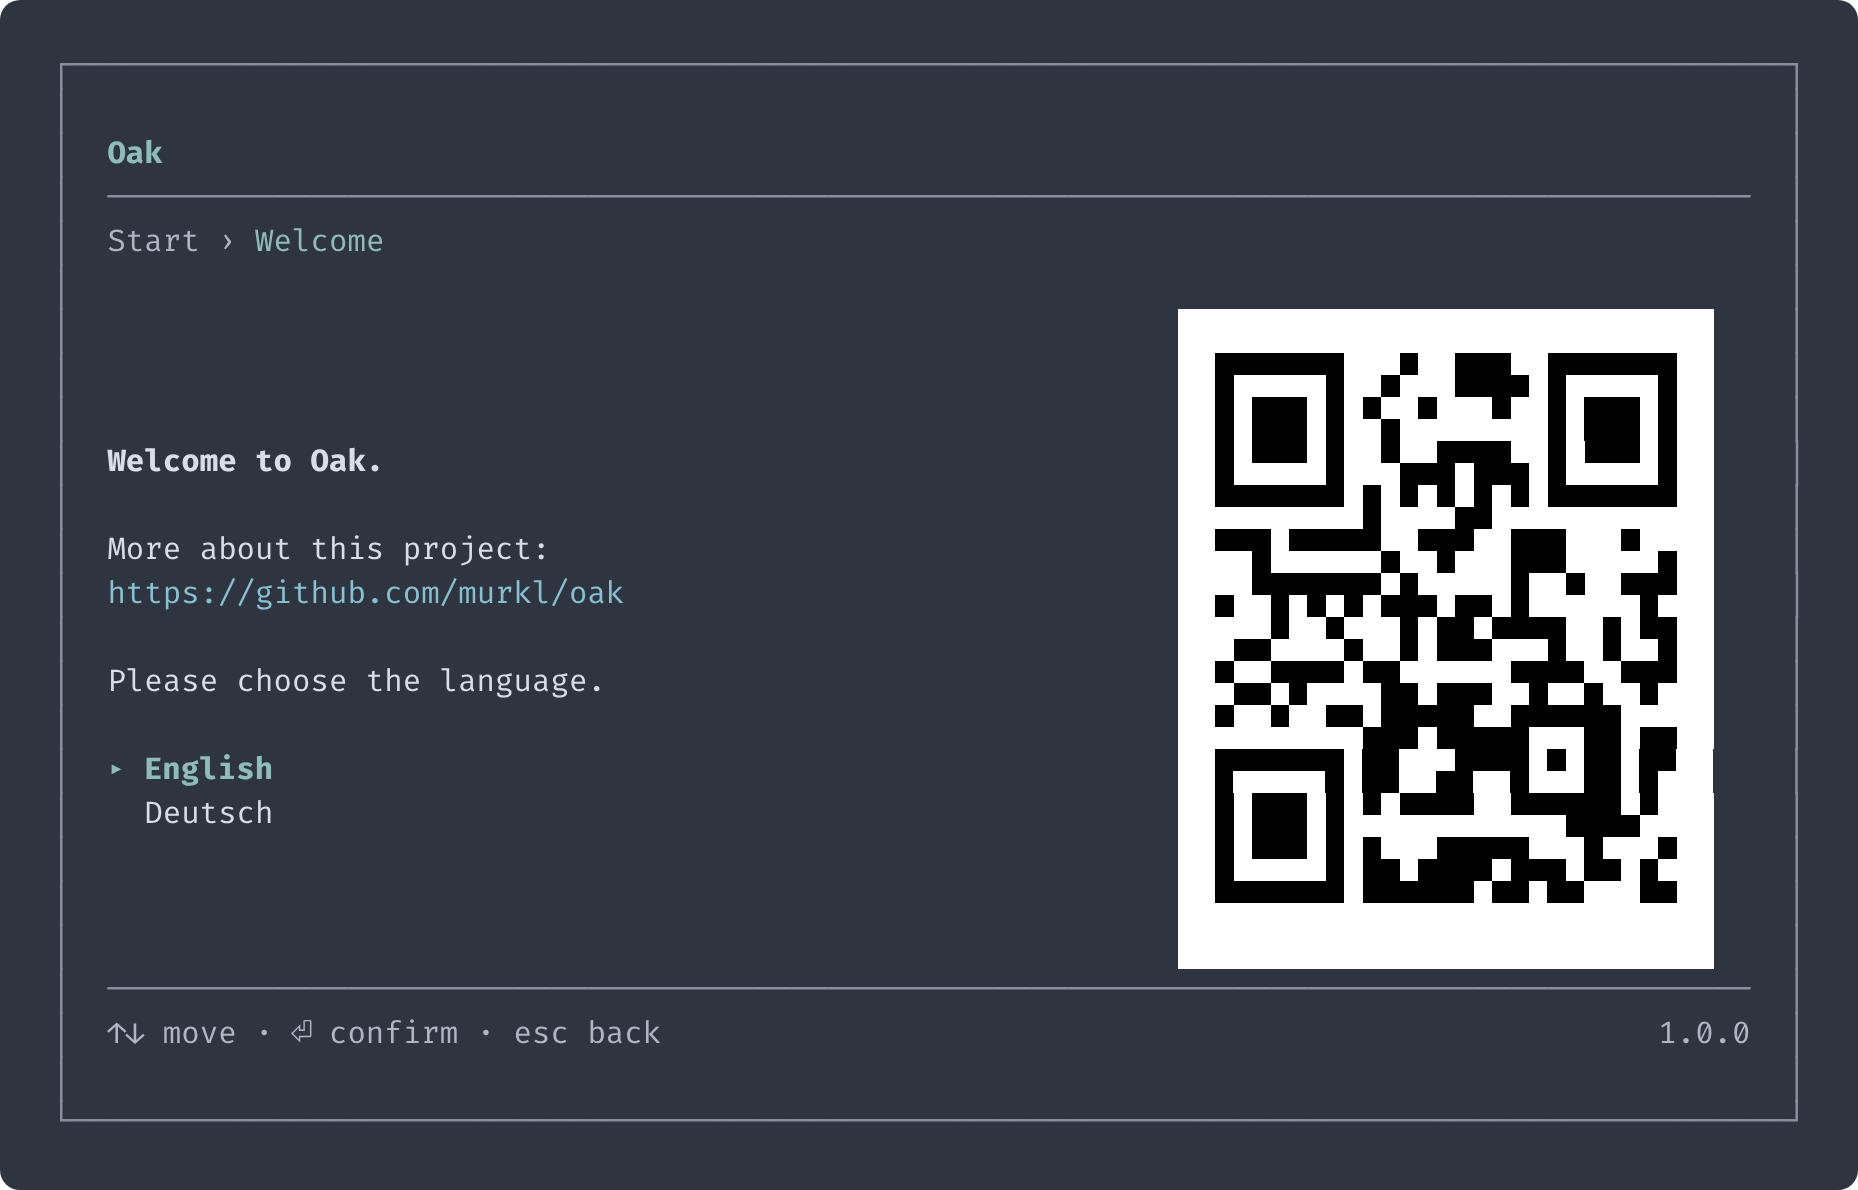
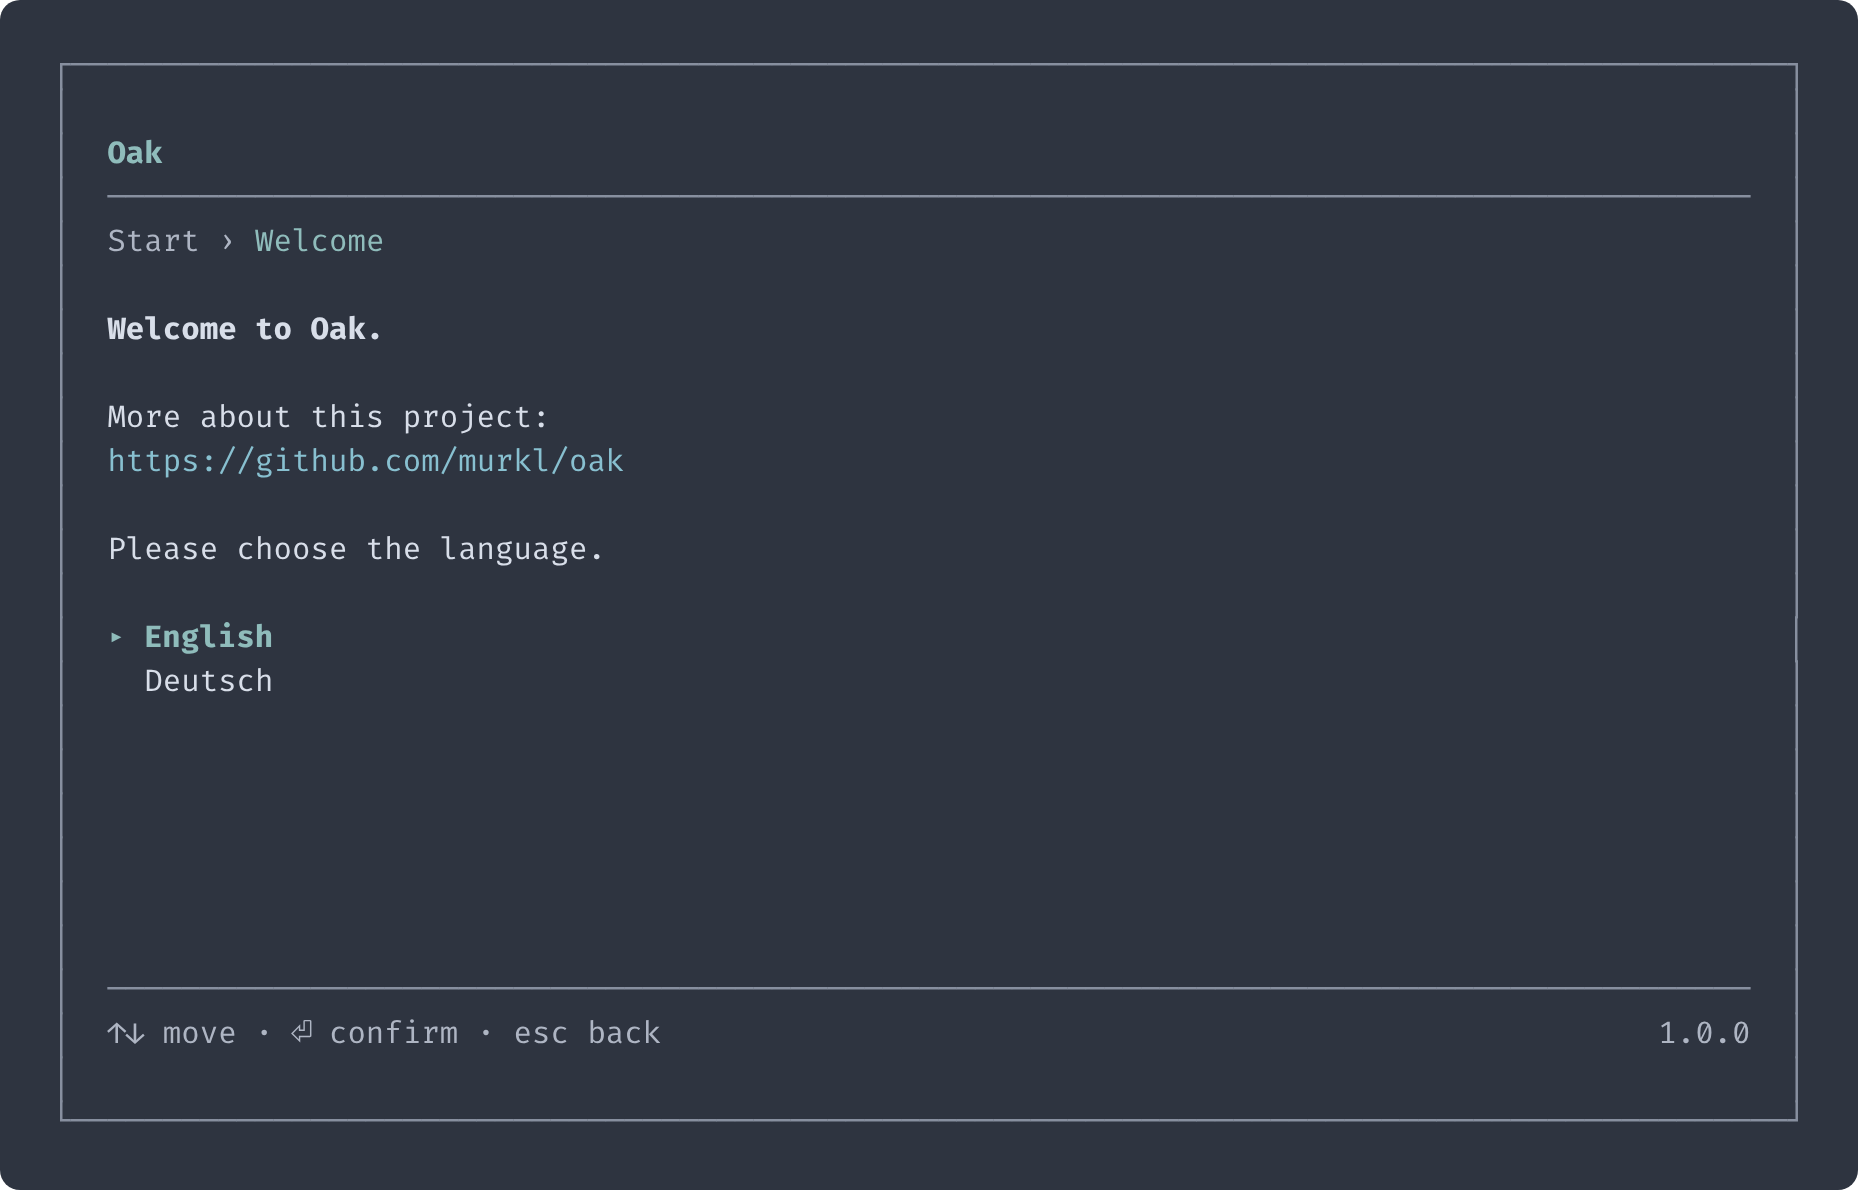
Drop the code from the welcome page and keep the address as writing

diff --git a/tui/language.go b/tui/language.go
@@ -37,10 +37,6 @@ type languageScreen struct {
 	lead  func() string
 	words func(width int) []string
 
-	// link is the product's address, drawn beside the rows as a code to scan.
-	// Empty on every page but the landing, and on a product that declared none.
-	link string
-
 	picker *picker
 	done   func() tea.Cmd
 }
@@ -97,44 +93,24 @@ func (s *languageScreen) Update(msg tea.Msg) (screen, tea.Cmd) {
 	return s, nil
 }
 
-// landingGap is the channel between the words and the code, wide enough that
-// the white of the code reads as a thing on the page rather than as its edge —
-// the same one the report page holds, for the same reason.
-const landingGap = gapL
-
 // View is the list, or — on the landing page — the page that list is part of:
-// the words, the rows under them, and the code beside both.
+// the words and the rows under them.
 //
-// The page divides in the golden ratio twice over. Across: the words and the
-// rows take the major part, the code the minor — that way round because the
-// words are what is read and the rows are what is pressed, while the code is
-// for a second machine entirely. It is drawn in a column of its own rather than
-// against the longest line beside it, so it stands in the same place whatever
-// the product is called and however many languages it was translated into.
-//
-// Down: the rows may claim up to the major part of the height, and whatever
-// they do not need is the words'. On the frame this page is drawn in that costs
-// nothing — two languages leave the words all the room they want — and it is
-// what decides who gives way on a terminal too short for both, or in a product
-// translated into twenty languages. The words do: they are what stands over the
-// page, and a greeting with no answer under it asks a question it does not
-// offer a way to answer.
+// The page divides in the golden ratio: the rows may claim up to the major part
+// of the height, and whatever they do not need is the words'. On the frame this
+// page is drawn in that costs nothing — two languages leave the words all the
+// room they want — and it is what decides who gives way on a terminal too short
+// for both, or in a product translated into twenty languages. The words do:
+// they are what stands over the page, and a greeting with no answer under it
+// asks a question it does not offer a way to answer.
 func (s *languageScreen) View(width, height int) string {
 	if s.words == nil {
 		return s.picker.View(width, height)
 	}
 
-	major, minor := split(width)
-	code := qrCode(s.link, minor, height)
-	if len(code) == 0 {
-		// Nothing beside the words, so there is no column to keep clear for it:
-		// the page is the words and the rows, at the width the frame gives them.
-		major = width
-	}
-
 	rowsWant, _ := split(height)
 	room := height - min(len(s.picker.items), rowsWant) - 1
-	words := s.words(major)
+	words := s.words(width)
 	// A paragraph at a time, from the end: the greeting is what is left last,
 	// and half of one read as the frame's edge would be worse than neither.
 	for len(words) > room {
@@ -145,9 +121,6 @@ func (s *languageScreen) View(width, height int) string {
 	if len(rows) > 0 {
 		rows = append(rows, "")
 	}
-	rows = append(rows, strings.Split(s.picker.View(major, max(height-len(rows), 1)), "\n")...)
-	if len(code) == 0 {
-		return block(rows)
-	}
-	return block(beside(rows, major, code, landingGap))
+	rows = append(rows, strings.Split(s.picker.View(width, max(height-len(rows), 1)), "\n")...)
+	return block(rows)
 }

diff --git a/tui/flow_test.go b/tui/flow_test.go
@@ -739,8 +739,8 @@ func TestTheLandingPageIsNeverTranslated(t *testing.T) {
 
 // The welcome page is read on a machine with nothing on it yet — no browser, no
 // second screen — so where the product says where the rest of it is, that is
-// where it goes: written out, and drawn again as a code, because the only
-// device in the room that can follow a link is the one in somebody's hand.
+// where it goes: written out, for whoever is in front of it to follow on the
+// machine they brought with them.
 func TestTheLandingPageCarriesTheProductsAddress(t *testing.T) {
 	rt := testRuntime()
 	rt.URL = "https://example.org/test-os"
@@ -748,9 +748,6 @@ func TestTheLandingPageCarriesTheProductsAddress(t *testing.T) {
 	h.send(tea.WindowSizeMsg{Width: 95, Height: 25})
 
 	h.wants("Welcome to Test OS.", rt.URL, landingLink, "English")
-	if !strings.Contains(h.screen(), strings.Repeat(blockFull, 2)) {
-		t.Errorf("the address is written but not drawn as a code:\n%s", h.screen())
-	}
 }
 
 // A product that named none is the page as it was: the greeting, and the
@@ -760,18 +757,15 @@ func TestAProductWithNoAddressShowsNone(t *testing.T) {
 	h.wants("Welcome to Test OS.", "English").refuses(landingLink, "https://")
 }
 
-// And the code is never the whole of what is on offer. A terminal too narrow
-// for one is exactly the terminal where the address has to be readable.
-func TestTheAddressStandsWhereTheCodeCannot(t *testing.T) {
+// And it stands whole in a frame with nothing to spare: a narrow terminal is
+// exactly the one where the address has to be readable.
+func TestTheAddressStandsInANarrowFrame(t *testing.T) {
 	rt := testRuntime()
 	rt.URL = "https://example.org/test-os"
 	h := newProduct(t, rt, twoLanguageTree())
 	h.send(tea.WindowSizeMsg{Width: 60, Height: 20})
 
 	h.wants(rt.URL)
-	if strings.Contains(h.screen(), strings.Repeat(blockFull, 2)) {
-		t.Errorf("a code was squeezed into a frame with no room for one:\n%s", h.screen())
-	}
 }
 
 // On a frame too short for all of it, the words give way and the rows do not:

diff --git a/tui/landing.go b/tui/landing.go
@@ -34,11 +34,6 @@ const (
 // and the line that leads the rows — each in the ink that says what it is. The
 // greeting carries the weight, the address the colour a value is written in
 // everywhere else in the program, and what is left is body text.
-//
-// The address is written out whether or not the code beside it could be drawn.
-// A terminal too narrow for the code is exactly the one where it has to be
-// readable, and it is the address that is the answer either way: the code is
-// only the shortest way to carry it to the machine that can follow it.
 func landingWords(product, link string, width int) []string {
 	out := inked(fmt.Sprintf(landingGreeting, product), width, boldStyle)
 	if link != "" {
@@ -50,14 +45,13 @@ func landingWords(product, link string, width int) []string {
 }
 
 // newLanding is that page: the greeting, the address, and under them the
-// languages on offer, with the address drawn a second time as a code to scan.
+// languages on offer.
 //
 // It is the language screen with something else standing over its rows rather
 // than a page of its own — the choice is the same choice, and a second way of
 // making it would be a second thing to keep right.
 func newLanding(a *app, done func() tea.Cmd) *languageScreen {
 	s := newLanguagePage(a, func() string { return landingTitle }, nil, done)
-	s.link = a.link()
-	s.words = func(width int) []string { return landingWords(a.brand(), s.link, width) }
+	s.words = func(width int) []string { return landingWords(a.brand(), a.link(), width) }
 	return s
 }

diff --git a/internal/spec/runtime.go b/internal/spec/runtime.go
@@ -44,10 +44,9 @@ type Runtime struct {
 	Logo   string `yaml:"logo"`
 
 	// URL is where the rest of this product is: what it is, what it does, who
-	// wrote it. It stands on the welcome page, as writing and as a code to
-	// scan, because that page is read on a machine with nothing on it yet — no
-	// browser, often no second screen — and the only device that can follow a
-	// link there is the one in somebody's hand.
+	// wrote it. It stands written out on the welcome page, because that page is
+	// read on a machine with nothing on it yet — no browser, often no second
+	// screen — and whoever is in front of it follows the address elsewhere.
 	//
 	// Left out, the page is the greeting and the languages, exactly as before.
 	URL string `yaml:"url"`
@@ -109,9 +108,9 @@ func (r *Runtime) check() error {
 	if r.Accent != "" && !hexColor.MatchString(r.Accent) {
 		return fmt.Errorf("%s: accent must be #rrggbb, got %q", FileRuntime, r.Accent)
 	}
-	// Checked here rather than where it is drawn: a link is put on screen to be
-	// typed off it and scanned off it, and both want the whole address. What a
-	// browser guesses at from `github.com/...` a camera cannot.
+	// Checked here rather than where it is drawn: the address is put on screen
+	// to be typed into another machine, and half of one leads nowhere. What a
+	// browser fills in from `github.com/...` whoever types it cannot.
 	if r.URL != "" {
 		u, err := url.Parse(r.URL)
 		if err != nil || !u.IsAbs() || u.Host == "" {

diff --git a/internal/spec/runtime_test.go b/internal/spec/runtime_test.go
@@ -105,9 +105,9 @@ func TestLoadRuntimeRefusesAnAccentThatIsNotAColour(t *testing.T) {
 	}
 }
 
-// A product's address is read off a screen by a camera and typed off it by
-// hand, and both want the whole of it — so half of one is refused where it is
-// declared rather than drawn as a code that goes nowhere.
+// A product's address is read off a screen and typed in somewhere else, so it
+// wants the whole of it — and half of one is refused where it is declared
+// rather than shown as a line that leads nowhere.
 func TestLoadRuntimeRefusesAnAddressThatIsNotOne(t *testing.T) {
 	for _, bad := range []string{"github.com/murkl/oak", "/murkl/oak", "https://"} {
 		dir := writeRuntime(t, "title: Test OS\nurl: "+bad+"\n", "installer")

diff --git a/tui/glyphs_test.go b/tui/glyphs_test.go
@@ -237,9 +237,9 @@ func TestTheLandingPageFitsAConsoleFont(t *testing.T) {
 	t.Cleanup(func() { adaptGlyphs(false) })
 	adaptGlyphs(true)
 
-	// With the address and its code, because that is the page a console
-	// actually draws: an installer is exactly the kind of product that has
-	// somewhere to point at and nowhere on the machine to open it.
+	// With the address, because that is the page a console actually draws: an
+	// installer is exactly the kind of product that has somewhere to point at
+	// and nowhere on the machine to open it.
 	rt := testRuntime()
 	rt.URL = "https://example.org/test-os"
 	h := newProduct(t, rt, twoLanguageTree())

diff --git a/docs/REFERENCE.md b/docs/REFERENCE.md
@@ -27,10 +27,10 @@ logo: |
 | `title` | The product's name, over every page — followed by the module's own once one is open |
 | `version` | What this build of the product is called, in the corner of every page. Left out, no version is shown |
 | `accent` | `#rrggbb`. The one colour the interface is built from |
-| `url` | Where the rest of the product is. Stands on the welcome page, written out and drawn beside it as a code to scan. Left out, that page is the greeting and the languages |
+| `url` | Where the rest of the product is. Stands written out on the welcome page. Left out, that page is the greeting and the languages |
 | `logo` | The wordmark. Everything above the first blank line is a dim eyebrow over it |
 
-`url` is an absolute address or it is refused — a scheme and a host, `https://…`. It is read off a screen by a camera as well as by a person, and what a browser would guess at from `tux.org/linux` a camera cannot.
+`url` is an absolute address or it is refused — a scheme and a host, `https://…`. It is read off one screen and typed into another, and the half a browser would fill in from `tux.org/linux` whoever types it has no way of knowing.
 
 `version` is the product's own. Oak's own is what `--version` answers — `0.1.0`, the release and nothing beside it, so a build that pins Oak reads the line as it stands — and what the splash signs off with under the wordmark. It is never shown as though it belonged to the product.
 

diff --git a/docs/CHANGELOG.md b/docs/CHANGELOG.md
@@ -2,6 +2,10 @@
 
 What each release changed, newest first. The version is what `oak --version` answers and what a product pins itself to; what moves which number is the promise in the **[README](README.md#1-get-oak)**.
 
+## 0.4.1 - 2026-09-18
+
+- The welcome page carries the product's address as writing alone — the code that stood beside the languages is gone
+
 ## 0.4.0 - 2026-09-18
 
 - A product may say where the rest of it is — `url:` — and the welcome page carries it: written out, and drawn beside the languages as a code to scan
